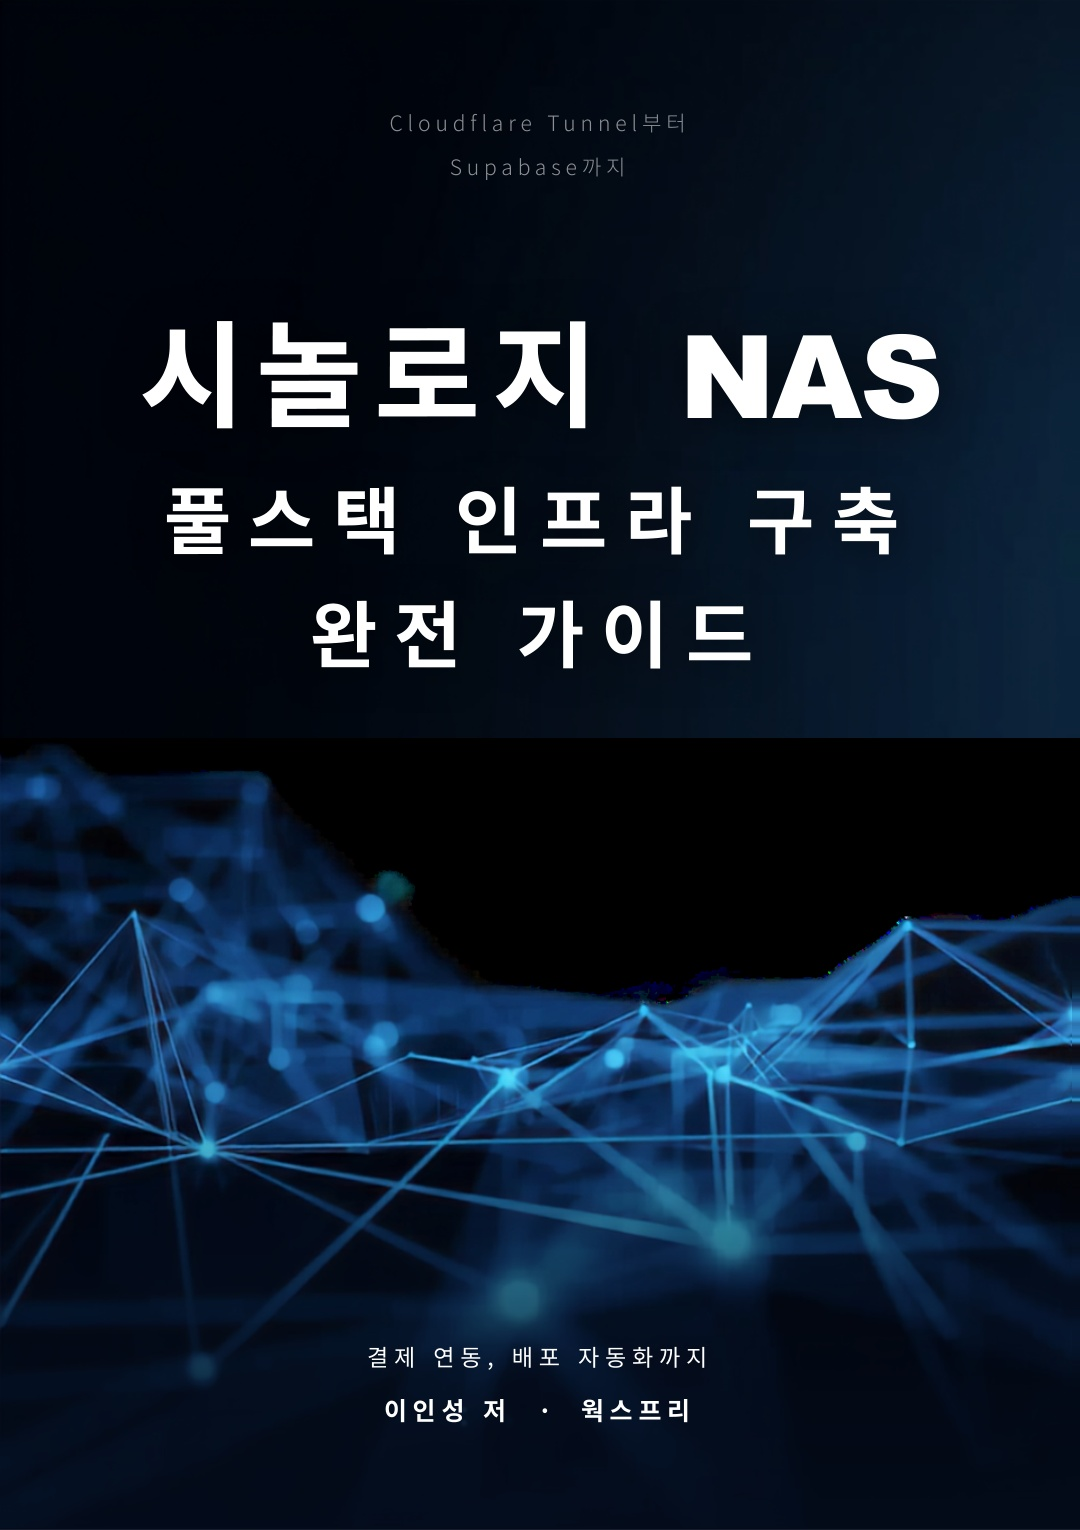
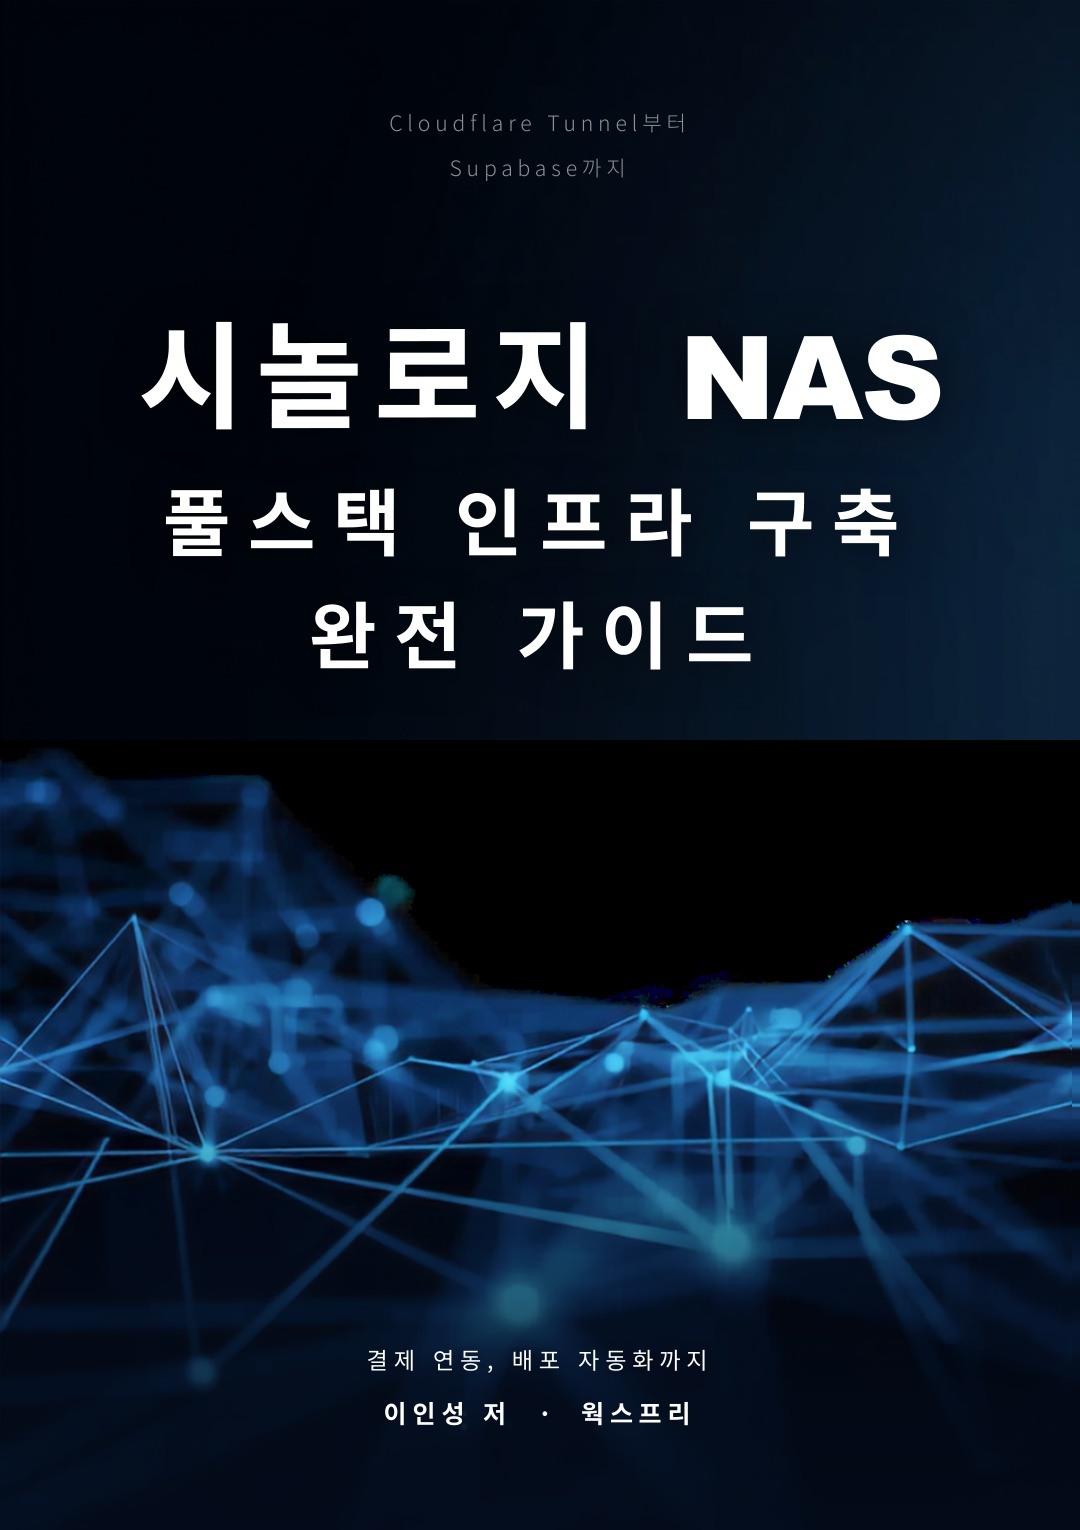
fix(publish): Edge headless 우측 세로선 아티팩트 영구 대응
원인: Edge headless PDF 출력 시 우측 경계 렌더링 한계.
      .cover { width: 148.5mm } → 페이지(148mm)보다 넓어 불일치 발생.

HTML 수정 (cover.html, cover_mail.html):
- .cover width: 148.5mm → 100% (페이지 폭 정확히 채움)
- html { overflow: hidden } 추가

Python 수정 (make_cover_jpg_v3, make_kmong_preview):
- fix_px 8 → 12, sample_x 여유 4 → 10으로 확대

CLAUDE.md: 재발 방지 수칙 추가
- HTML .cover width 주의사항
- fix_right_edge() 표준 함수 및 적용 원칙 문서화

커버 + 미리보기 이미지 재생성

diff --git a/30.publish/시놀로지NAS_풀스택가이드/cover.html b/30.publish/시놀로지NAS_풀스택가이드/cover.html
@@ -163,8 +163,10 @@
     @page { size: 148mm 210mm; margin: 0; }
     @media print {
       * { -webkit-print-color-adjust: exact !important; print-color-adjust: exact !important; }
+      html { overflow: hidden !important; }
       html, body { margin: 0 !important; padding: 0 !important; width: 100% !important; background: #040c1c !important; display: block !important; }
-      .cover { width: 148.5mm !important; height: 210mm !important; box-shadow: none !important; overflow: hidden !important; }
+      /* 148.5mm → 100%: 페이지 정확히 채워 우측 렌더링 아티팩트 방지 */
+      .cover { width: 100% !important; height: 210mm !important; box-shadow: none !important; overflow: hidden !important; }
     }
   </style>
 </head>

diff --git a/30.publish/시놀로지NAS_풀스택가이드/cover_mail.html b/30.publish/시놀로지NAS_풀스택가이드/cover_mail.html
@@ -126,8 +126,10 @@
     @page { size: 148mm 210mm; margin: 0; }
     @media print {
       * { -webkit-print-color-adjust: exact !important; print-color-adjust: exact !important; }
+      html { overflow: hidden !important; }
       html, body { margin: 0 !important; padding: 0 !important; width: 100% !important; background: #040c1c !important; display: block !important; }
-      .cover { width: 148.5mm !important; height: 210mm !important; box-shadow: none !important; overflow: hidden !important; }
+      /* 148.5mm → 100%: 페이지 정확히 채워 우측 렌더링 아티팩트 방지 */
+      .cover { width: 100% !important; height: 210mm !important; box-shadow: none !important; overflow: hidden !important; }
     }
   </style>
 </head>

diff --git a/30.publish/시놀로지NAS_풀스택가이드/CLAUDE.md b/30.publish/시놀로지NAS_풀스택가이드/CLAUDE.md
@@ -22,6 +22,45 @@
 2. 저장하면 개발용 폴더에도 자동 반영됨 (하드링크이므로 별도 동기화 불필요)
 3. 신규 구축가이드 추가 시 → 이 폴더에 파일 생성 후 개발용 폴더에 하드링크 연결
 
+## PDF → JPG 추출 시 우측 세로선 아티팩트 (필독)
+
+### 문제
+Edge headless로 HTML → PDF 변환 후 PyMuPDF로 JPG 추출하면
+**우측 끝에 1~10px 폭의 흰색·청색 세로선**이 항상 생긴다.
+커버처럼 어두운 배경에서 특히 두드러진다.
+
+### 원인
+Edge headless 페이지 경계 렌더링 한계.
+배경 이미지·색상이 우측 끝까지 완벽하게 채워지지 않아 발생.
+
+### 대응 1 — HTML (커버 파일)
+`@media print`에서 반드시 아래 두 항목을 유지한다.
+```css
+html { overflow: hidden !important; }
+.cover { width: 100% !important; }   /* 148.5mm 절대금지 — 페이지 폭 불일치 야기 */
+```
+
+### 대응 2 — Python (PDF 추출 스크립트 공통)
+PDF 페이지를 JPG로 추출할 때 **반드시** 아래 함수를 적용한다.
+빠뜨리면 우측 세로선이 남는다.
+
+```python
+def fix_right_edge(img, fix_px=12):
+    """Edge headless 우측 아티팩트 제거 — PDF 추출 후 항상 호출"""
+    w, h = img.size
+    pixels = img.load()
+    sample_x = w - fix_px - 10   # 아티팩트 영역 밖 기준점
+    for y in range(h):
+        ref = pixels[sample_x, y]
+        for x in range(w - fix_px, w):
+            pixels[x, y] = ref
+    return img
+```
+
+적용 대상: `make_cover_jpg_v3.py`, `make_kmong_preview.py` 및 이후 추가될 모든 PDF→JPG 변환 스크립트.
+
+---
+
 ## 하드링크 생성 명령 (참고)
 
 ```powershell
